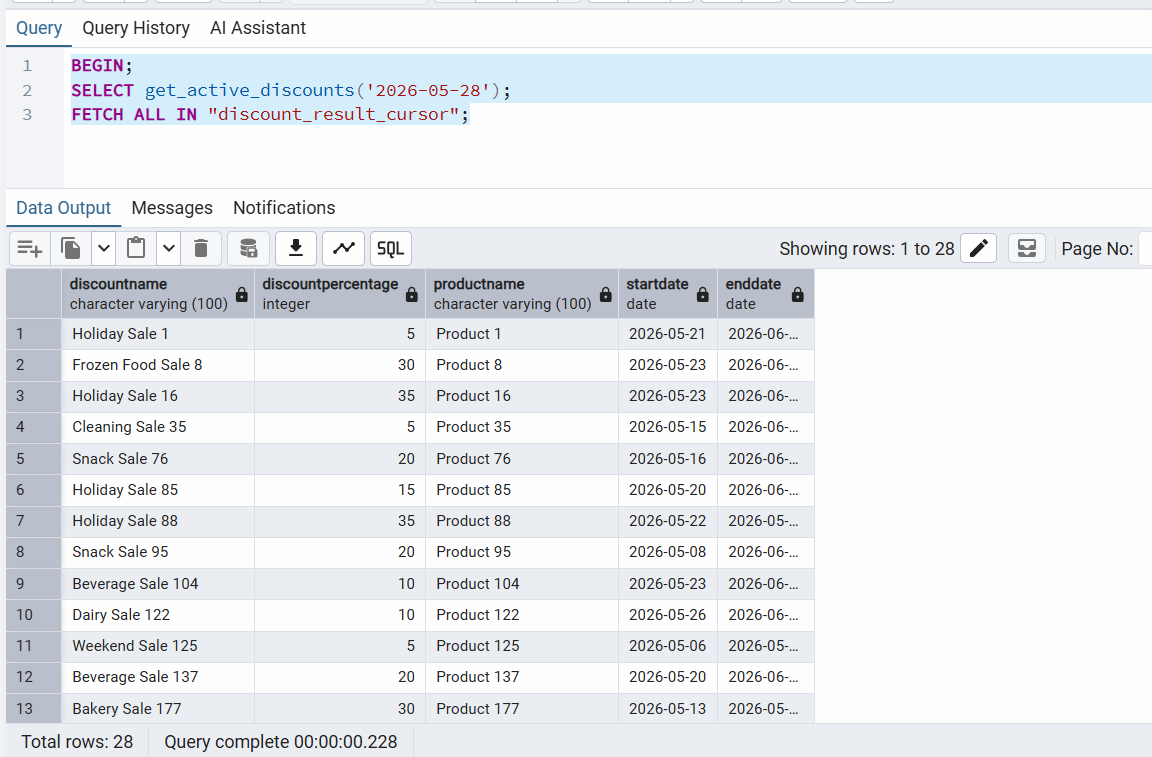
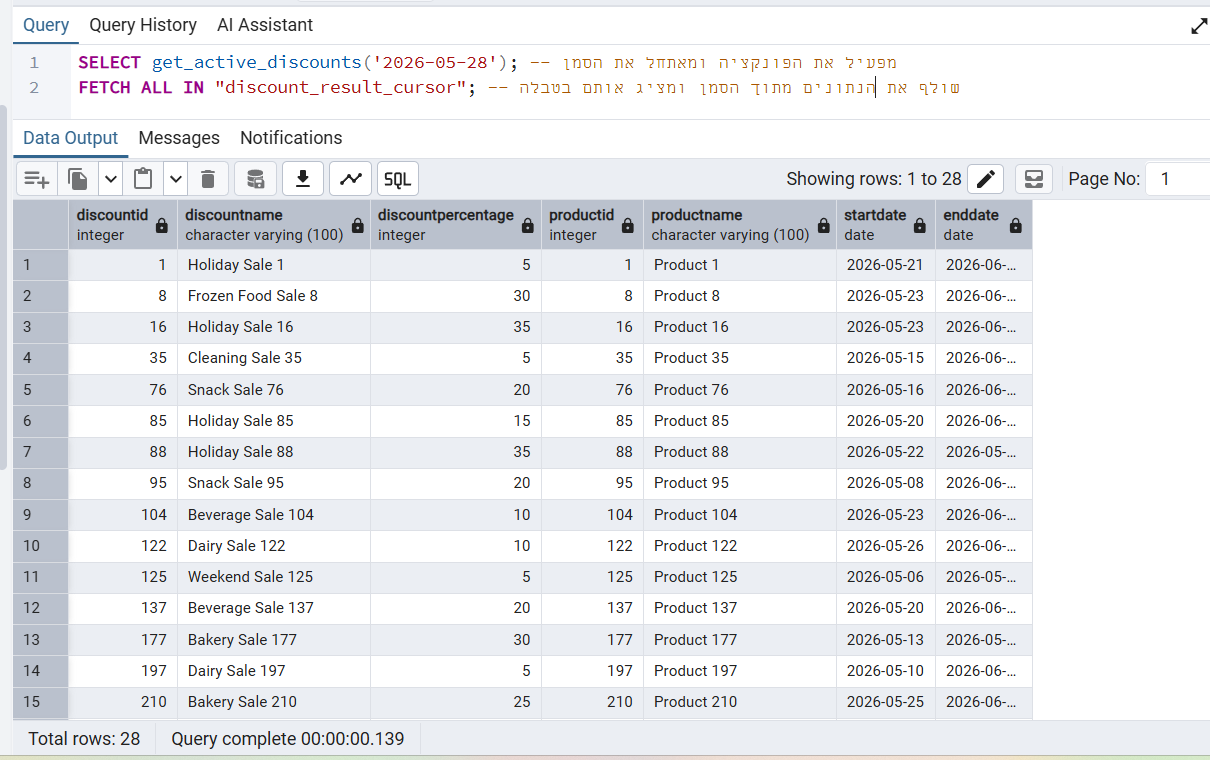
המשך

Changed region(s): [[0.0, 0.0, 1.0, 1.0], [0.375, 0.0, 0.7812, 0.0304]]

diff --git a/Step 4/README.md b/Step 4/README.md
@@ -57,8 +57,10 @@ BEGIN
 
     -- [2] דרישה: פתיחת ה-Cursor (Explicit Cursor Opening) עבור שאילתה מורכבת
     OPEN discount_cursor FOR
-        SELECT d.DiscountName, 
+        SELECT d.DiscountID,
+               d.DiscountName, 
                d.DiscountPercentage, 
+               p.ProductID, 
                p.ProductName, 
                d.StartDate, 
                d.EndDate
@@ -86,12 +88,8 @@ $$ LANGUAGE plpgsql;
 ## ▶ הפעלת הפונקציה
 
 ```sql
-BEGIN; -- חובה לפתוח טרנזקציה כשעובדים עם Cursor
 SELECT get_active_discounts('2026-05-28'); -- מפעיל את הפונקציה ומאתחל את הסמן
 FETCH ALL IN "discount_result_cursor"; -- שולף את הנתונים מתוך הסמן ומציג אותם בטבלה
-
---בנפרד
-COMMIT;
 ```
 
 ---
@@ -107,36 +105,35 @@ COMMIT;
 
 # 🔹 פונקציה 2 — `[calculate_order_price]`
 
-**תיאור מילולי:** פונקציה מורכבת המיועדת לסנכרון פיננסי ולחישוב העלות הכוללת של הזמנות ברשת. הפונקציה מקבלת מזהה הזמנה, שולפת את תאריך ביצועה המקורי, ועוברת בלולאה על כל הפריטים המשויכים אליה. עבור כל מוצר, הפונקציה מאתרת דינמית את אחוז ההנחה המקסימלי התקף לאותו תאריך (מתוך טבלת `DISCOUNT`), מחשבת את מחיר הנטו החדש, מעדכנת ישירות את טבלת האם `"ORDER"` ומחזירה את המחיר הסופי.
+**תיאור מילולי:** פונקציה מורכבת המיועדת לסנכרון פיננסי, בקרת קלט ולחישוב העלות הכוללת של הזמנות רכש (רכש סיטונאי מספקים עבור מלאי הרשת). הפונקציה מקבלת מזהה הזמנה (`p_order_id`) ואחוז עלות סיטונאית (`p_wholesale_percentage`). בתחילה, הפונקציה מבצעת בדיקת תקינות (Validation) על אחוז הסיטונאות ומוודאת שהוא בטווח חוקי (בין 1 ל-100), ולאחר מכן בודקת באופן ישיר שההזמנה אכן קיימת במערכת. בהמשך, הפונקציה פותחת סמן מפורש ועוברת בלולאה שורה-אחרי-שורה על כל הפריטים והכמויות המשויכים להזמנה זו מתוך טבלת הקשר `CONTAINS`. עבור כל מוצר, הפונקציה מתעלמת מהנחות הצרכן הרגילות (שכן מדובר ברכש מספק), וגוזרת את המחיר הסיטונאי המוזל ישירות ממחיר המחירון הבסיסי של המוצר בטבלת `PRODUCT` בהתאם לאחוז שסופק בקלט. בסיום החישוב המצטבר, הפונקציה מבצעת פקודת עדכון פיזית (DML) על עמודת `Price` בטבלת האם `"ORDER"` ומחזירה את המחיר הסופי שחושב.
 
 **אלמנטים ותכנוני PL/pgSQL הממומשים בפונקציה (עמידה בדרישות המטלה):**
-* **סמן מפורש - Explicit Cursor (סעיף a):** הגדרה ופתיחה ידנית של סמן מפורש (`cur_order_items`) המבצע `JOIN` בין טבלת הקשר `CONTAINS` לטבלת `PRODUCT` ומאפשר עיבוד נתונים מבוקר.
+* **סמן מפורש - Explicit Cursor (סעיף a):** הגדרה ופתיחה ידנית של סמן מפורש (`cur_order_items`) המבצע `JOIN` בין טבלת הקשר `CONTAINS` לטבלת המוצרים `PRODUCT` ומאפשר עיבוד נתונים מבוקר של המוצרים בהזמנה.
 * **לולאות - Loops (סעיף e):** שימוש בלולאת `LOOP` המשלבת פקודת `FETCH` ותנאי יציאה מובנה (`EXIT WHEN NOT FOUND`) לצורך ריצה סדרתית על פריטי ההזמנה.
-* **רשומות - Records (סעיף g):** שימוש ברשומה דינמית (`r_item` מסוג `RECORD`) לקליטה זמנית של נתוני השורות הנשלפות מהסמן בכל איטרציה של הלולאה.
-* **פקודות DML ועדכון נתונים (סעיף c):** ביצוע פקודת `UPDATE` ישירה על טבלת `"ORDER"` לעדכון מחיר הנטו הסופי המשוקלל בבסיס הנתונים מתוך הפונקציה.
-* **הסתעפויות (סעיף d):** שימוש במבני תנאי (`IF THEN`) לביצוע ולידציות קריטיות: בדיקה אם ההזמנה קיימת במערכת, ובדיקה נוספת למניעת חישוב עבור הזמנות "רפאים" ללא מוצרים.
+* **רשומות - Records (סעיף g):** שימוש ברשומה דינמית (`r_item` מסוג `RECORD`) לקליטה זמנית של נתוני השורות (מחיר וכמות) הנשלפות מהסמן בכל איטרציה של הלולאה.
+* **פקודות DML ועדכון נתונים (סעיף c):** ביצוע פקודת `UPDATE` ישירה על טבלת `"ORDER"` לעדכון מחיר הרכש הסופי המשוקלל בבסיס הנתונים מתוך הפונקציה.
+* **הסתעפויות (סעיף d):** שימוש במבני תנאי (`IF THEN`) לביצוע ולידציות קריטיות: בדיקה שאחוז הקלט תקין, בדיקה אם ההזמנה קיימת במערכת, ובדיקה נוספת למניעת חישוב עבור הזמנות "רפאים" ללא מוצרים.
 * **ניהול חריגות - Exception (סעיף f):** שימוש בבלוק `EXCEPTION WHEN OTHERS THEN` הכולל מנגנון הגנה אקטיבי הבודק את סטאטוס הסמן (`%ISOPEN`) וסוגר אותו במידת הצורך למניעת זליגת משאבים, לצד הדפסת הודעת שגיאה מפורטת (`SQLERRM`) וגלגול החריגה מעלה (`RAISE`).
-
 ---
 
 ## 💻 קוד הפונקציה
 
 ```sql
-CREATE OR REPLACE FUNCTION calculate_order_price(p_order_id INT)
+CREATE OR REPLACE FUNCTION calculate_order_price(p_order_id INT, p_wholesale_percentage NUMERIC)
 RETURNS NUMERIC AS $$
 /**
  * פרויקט בסיסי נתונים - שלב ד' - תכנות PL/pgSQL
- * פונקציה מספר 2: חישוב ועדכון עלות סופית של הזמנה כולל הנחות
- * * תיאור: הפונקציה מקבלת מזהה הזמנה, רצה בלולאה על כל פריטיה, בודקת הנחות
- * פעילות בהתאם לתאריך המקורי של ההזמנה, ומעדכנת את מחיר הנטו בטבלת האם.
+ * פונקציה מספר 2: חישוב ועדכון עלות הזמנת רכש מספק לפי אחוז סיטונאי
+ * * תיאור: הפונקציה מקבלת מזהה הזמנה ואחוז עלות מהמחירון (רכש מספק).
+ * היא מחשבת את סך ההזמנה ישירות ממחירי המוצרים הנוכחיים ומעדכנת את טבלת ORDER.
  * * אלמנטים ממומשים: Explicit Cursor, Cursor Loop, RECORD, DML (UPDATE), 
  * Conditional Logic (IF), Exception Handling (כולל בדיקת סטאטוס סמן)
  */
 DECLARE
-    -- משתנים מקומיים לשמירת תאריך, סכומים ומונים
-    v_order_date TIMESTAMP;
+    -- משתנים מקומיים לשמירת סכומים ומונים
     v_total_price NUMERIC(10, 2) := 0.00;
     v_items_count INT := 0;
+    v_order_exists INT;
 
     -- [1] דרישה: הגדרת סמן מפורש (Explicit Cursor) לחיבור טבלת הקשר עם טבלת המוצרים
     cur_order_items CURSOR FOR 
@@ -147,16 +144,16 @@ DECLARE
 
     -- [2] דרישה: שימוש ברשומה (RECORD) דינמית לצורך מעבר על שורות הסמן
     r_item RECORD;
-    v_discount_pct INT;
-    v_item_final_price NUMERIC(10, 2);
+    v_item_wholesale_price NUMERIC(10, 2);
 BEGIN
-    -- שליפת תאריך ההזמנה המקורית מטבלת האם
-    SELECT OrderDate
-    INTO v_order_date
-    FROM "ORDER"
-    WHERE OrderId = p_order_id;
+    -- [3] דרישה: הסתעפות ובדיקת תקינות קלט (Validation) על אחוז הסיטונאות
+    IF p_wholesale_percentage IS NULL OR p_wholesale_percentage <= 0 OR p_wholesale_percentage > 100 THEN
+        RAISE EXCEPTION 'שגיאה: אחוז עלות סיטונאית חייב להיות בין 1 ל-100.';
+    END IF;
 
-    -- [3] דרישה: הסתעפות (Conditional Logic) - בדיקה אם ההזמנה בכלל קיימת בבסיס הנתונים
+    -- בדיקה ישירה אם ההזמנה קיימת במערכת
+    SELECT 1 INTO v_order_exists FROM "ORDER" WHERE OrderId = p_order_id;
+    
     IF NOT FOUND THEN
         -- דרישה: זריקת חריגה מבוקרת (RAISE EXCEPTION)
         RAISE EXCEPTION 'שגיאה: הזמנה מספר % לא קיימת במערכת.', p_order_id;
@@ -174,25 +171,17 @@ BEGIN
         -- קידום מונה הפריטים בהזמנה
         v_items_count := v_items_count + 1;
 
-        -- שליפת אחוז ההנחה המקסימלי התקף עבור המוצר הספציפי ביום ביצוע ההזמנה
-        SELECT COALESCE(MAX(d.DiscountPercentage), 0)
-        INTO v_discount_pct
-        FROM APPLIES_TO a
-        JOIN DISCOUNT d ON a.DiscountID = d.DiscountID
-        WHERE a.ProductID = r_item.ProductID
-          AND v_order_date::DATE BETWEEN d.StartDate AND d.EndDate;
+        -- חישוב מחיר הפריט הסיטונאי (מחיר החנות * אחוז הסיטונאות)
+        v_item_wholesale_price := r_item.Price * (p_wholesale_percentage / 100.0);
 
-        -- חישוב מחיר הפריט לאחר שקלול אחוז ההנחה שחזר
-        v_item_final_price := r_item.Price * (1 - (v_discount_pct / 100.0));
-
-        -- הוספת העלות של השורה הנוכחית (מחיר לאחר הנחה X כמות שהוזמנה) לסך הכל הכולל
-        v_total_price := v_total_price + (v_item_final_price * r_item.Quantity);
+        -- הוספת העלות של השורה הנוכחית (מחיר סיטונאי X כמות שהוזמנה) לסך הכל הכולל
+        v_total_price := v_total_price + (v_item_wholesale_price * r_item.Quantity);
     END LOOP;
 
     -- [6] סגירת הסמן המפורש לשחרור משאבי מערכת
     CLOSE cur_order_items;
 
-    -- בדיקה לוגית נוספת: חסימת מקרה של הזמנה "רפאים" ללא מוצרים משויכים
+    -- בדיקה לוגית נוספת: חסימת מקרה של הזמנה ללא מוצרים משויכים
     IF v_items_count = 0 THEN
         RAISE EXCEPTION 'שגיאה: להזמנה מספר % אין מוצרים ולכן לא ניתן לחשב מחיר.', p_order_id;
     END IF;
@@ -203,8 +192,8 @@ BEGIN
     WHERE OrderId = p_order_id;
 
     -- הדפסת הודעת הצלחה מפורטת לחלונית ה-Messages לטובת מעקב (ולוגים בדו"ח)
-    RAISE NOTICE 'החישוב הסתיים בהצלחה. המחיר הכולל המעודכן עבור הזמנה % הוא: %',
-        p_order_id, v_total_price;
+    RAISE NOTICE 'חישוב עלות רכש מספק הסתיים. אחוז סיטונאי: % אחוז, מחיר מעודכן להזמנה % הוא: %',
+        p_wholesale_percentage, p_order_id, v_total_price;
 
     -- החזרת המחיר הסופי שחושב לתוכנית הקוראת
     RETURN v_total_price;
@@ -218,10 +207,10 @@ EXCEPTION
         END IF;
 
         -- הדפסת לוג שגיאה מפורט עם תיאור הבעיה המדויק מהשרת (SQLERRM)
-        RAISE NOTICE 'אירעה שגיאה בזמן חישוב העלות עבור הזמנה %: %',
+        RAISE NOTICE 'אירעה שגיאה בזמן חישוב עלות רכש עבור הזמנה %: %',
             p_order_id, SQLERRM;
 
-        -- גלגול השגיאה הלאה (Re-raise) כדי שהטרנזקציה תיכשל ולא יישמרו נתונים שגויים
+        -- גלגול השגיאה הלאה (Re-raise)
         RAISE;
 END;
 $$ LANGUAGE plpgsql;
@@ -232,7 +221,7 @@ $$ LANGUAGE plpgsql;
 ## ▶ הפעלת הפונקציה
 
 ```sql
-SELECT calculate_order_price(1);
+SELECT calculate_order_price(1, 65.00);
 ```
 
 ---
@@ -634,7 +623,15 @@ VALUES (100000, 250.00, 1, 1, '2020-01-01 10:00:00');
 
 ---
 
-# 🔹 תוכנית ראשית 1 — `[שם התוכנית]`
+# 🔹 תוכנית ראשית 1 
+
+### 📝 תוכנית ראשית 1: עדכון פחת והפקת דו"ח מבצעים אקטיביים
+
+תוכנית זו משלבת תהליך תפעולי ושיווקי במקביל ומבצעת את הפעולות הבאות:
+
+1. **החלת הנחת פחת (פרוצדורה):** מאתרת אוטומטית בטבלת `PRODUCT` את כל המוצרים שתוקפם עומד לפוג ב-45 הימים הקרובים, ומורידה את מחיר המחירון שלהם ב-**15%**.
+2. **שליפת מבצעים (פונקציה):** קוראת לפונקציה שמחזירה סמן דינמי (`Ref Cursor`) המכיל את כל ההנחות והמבצעים התקפים ליום הנוכחי.
+3. **הפקת דו"ח (לולאה):** רצה בלולאה שורה-אחרי-שורה על הסמן, ומדפיסה לחלונית ה-`Messages` דו"ח מפורט הכולל את מזהה המבצע, אחוז ההנחה, שם המוצר ותוקפו.
 
 
 ---
@@ -659,7 +656,7 @@ DECLARE
 BEGIN
     RAISE NOTICE '=== תחילת ריצת תוכנית ראשית 1: עדכון פחת והצגת מבצעים ===';
 
-    -- [א] זימון פרוצדורה מספר 2: החלת 15% הנחה על מוצרים הפגים בעוד 45 ימים
+    -- [א] זימון פרוצדורה מספר 1: החלת 15% הנחה על מוצרים הפגים בעוד 45 ימים
     RAISE NOTICE '--- שלב 1: מפעיל פרוצדורת הנחת מוצרים קרובים לתפוגה ---';
     CALL discount_near_expiration_products(45, 15.00);
 
@@ -675,10 +672,12 @@ BEGIN
         -- תנאי יציאה: כאשר נגמרו השורות בסמן
         EXIT WHEN NOT FOUND;
 
-        -- הדפסת הנתונים לחלונית ה-Messages
-        RAISE NOTICE 'מבצע: "%" (%%% הנחה) תקף על המוצר: "%" [טווח: % עד %]',
+        -- התיקון כאן: הדפסה תקינה ללא כפל אחוזים + שילוב ה-IDs החדשים שהוספנו לפונקציה
+        RAISE NOTICE 'מבצע מספר %: "%" (% אחוז הנחה) תקף על מוצר %: "%" [טווח: % עד %]',
+            r_discount_row.DiscountID,
             r_discount_row.DiscountName,
             r_discount_row.DiscountPercentage,
+            r_discount_row.ProductID,
             r_discount_row.ProductName,
             r_discount_row.StartDate,
             r_discount_row.EndDate;
@@ -693,21 +692,21 @@ END $$;
 
 ---
 
-## ▶ הפעלה
-
-```sql
-
-```
-
----
-
 ## ✅ הוכחת תקינות
 
+![ ](images/main1.png)
 
 ---
 
-# 🔹 תוכנית ראשית 2 — `[שם התוכנית]`
+# 🔹 תוכנית ראשית 2 
 
+### 📝 תוכנית ראשית 2: קליטת משלוח מספק וסנכרון פיננסי של הזמנה
+
+תוכנית זו מייצרת סגירת מעגל מלאה (End-to-End) של תהליך קבלת סחורה ברשת:
+
+1. **קליטת מלאי וסגירת הזמנה (פרוצדורה):** קוראת לפרוצדורה המעדכנת את סטטוס ההזמנה הנבחרת ל-`COMPLETED` ומזרימה אוטומטית את כמויות הפריטים שהגיעו אל תוך טבלת המלאי של הסניף המזמין (`INVENTORY`).
+2. **עדכון עלויות סיטונאיות (פונקציה):** מפעילה את הפונקציה הפיננסית שמחשבת את עלות הרכש של ההזמנה מול הספק על בסיס אחוז עלות קבוע (למשל 65% ממחיר הצרכן), ומעדכנת את עמודת `Price` בטבלת `"ORDER"`.
+3. **ניהול חריגות (Exception):** עוטפת את כל התהליך בבלוק הגנה ראשי. אם הפרוצדורה נכשלת (למשל, מנסים לקלוט הזמנה שכבר נסגרה בעבר), התוכנית תופסת את השגיאה, מציגה אותה בצורה נקייה ומבצעת Rollback כדי למנוע נזק לנתונים.
 
 
 ---
@@ -726,23 +725,26 @@ DECLARE
     -- משתנה לקביעת מספר ההזמנה שנטפל בה (ניתן לשנות לכל מזהה קיים אצלכם)
     v_target_order_id INT := 1;
     
+    -- משתנה לקביעת אחוז הרכש הסיטונאי מהספק (התווסף בעקבות שינוי הפונקציה)
+    v_wholesale_pct NUMERIC := 65.00;
+    
     -- משתנה לקליטת המחיר הסופי שיוחזר מהפונקציה
     v_calculated_final_price NUMERIC(10,2);
 BEGIN
     RAISE NOTICE '=== תחילת ריצת תוכנית ראשית 2: קליטת משלוח וחישוב מחיר ===';
 
-    -- [א] זימון פרוצדורה מספר 3: עדכון סטטוס ההזמנה ל-COMPLETED וקליטת מלאי ב-INVENTORY
+    -- [א] זימון פרוצדורה מספר 2: עדכון סטטוס ההזמנה ל-COMPLETED וקליטת מלאי ב-INVENTORY
     RAISE NOTICE '--- שלב 1: מפעיל פרוצדורה לקליטת המשלוח ועדכון המלאי בחנות ---';
     CALL complete_order_and_update_stock(v_target_order_id);
 
-    -- [ב] זימון פונקציה מספר 2: חישוב המחיר הסופי המעודכן ושמירתו במשתנה המקומי
+    -- [ב] זימון פונקציה מספר 2: חישוב המחיר הסיטונאי המעודכן ושמירתו במשתנה (הועברו 2 פרמטרים!)
     RAISE NOTICE '--- שלב 2: מפעיל פונקציה לחישוב המחיר המשוקלל הסופי של ההזמנה ---';
-    v_calculated_final_price := calculate_order_price(v_target_order_id);
+    v_calculated_final_price := calculate_order_price(v_target_order_id, v_wholesale_pct);
 
     -- הדפסת סיכום התהליך
     RAISE NOTICE '--- שלב 3: סיכום תוצאות הריצה ---';
-    RAISE NOTICE 'התהליך הושלם במלואו! הזמנה מספר % נסגרה. המחיר שסונכרן בטבלה: % ש"ח.',
-        v_target_order_id, v_calculated_final_price;
+    RAISE NOTICE 'התהליך הושלם במלואו! הזמנה מספר % נסגרה. המחיר הסיטונאי שסונכרן בטבלה (% אחוז מהמחירון): % ש"ח.',
+        v_target_order_id, v_wholesale_pct, v_calculated_final_price;
 
     RAISE NOTICE '=== תוכנית ראשית 2 הסתיימה בהצלחה ===';
 
@@ -756,16 +758,9 @@ END $$;
 
 ---
 
-## ▶ הפעלה
-
-```sql
-
-```
----
-
 ## ✅ הוכחת תקינות
 
-
+![ ](images/main2.png)
 ---
 
 
